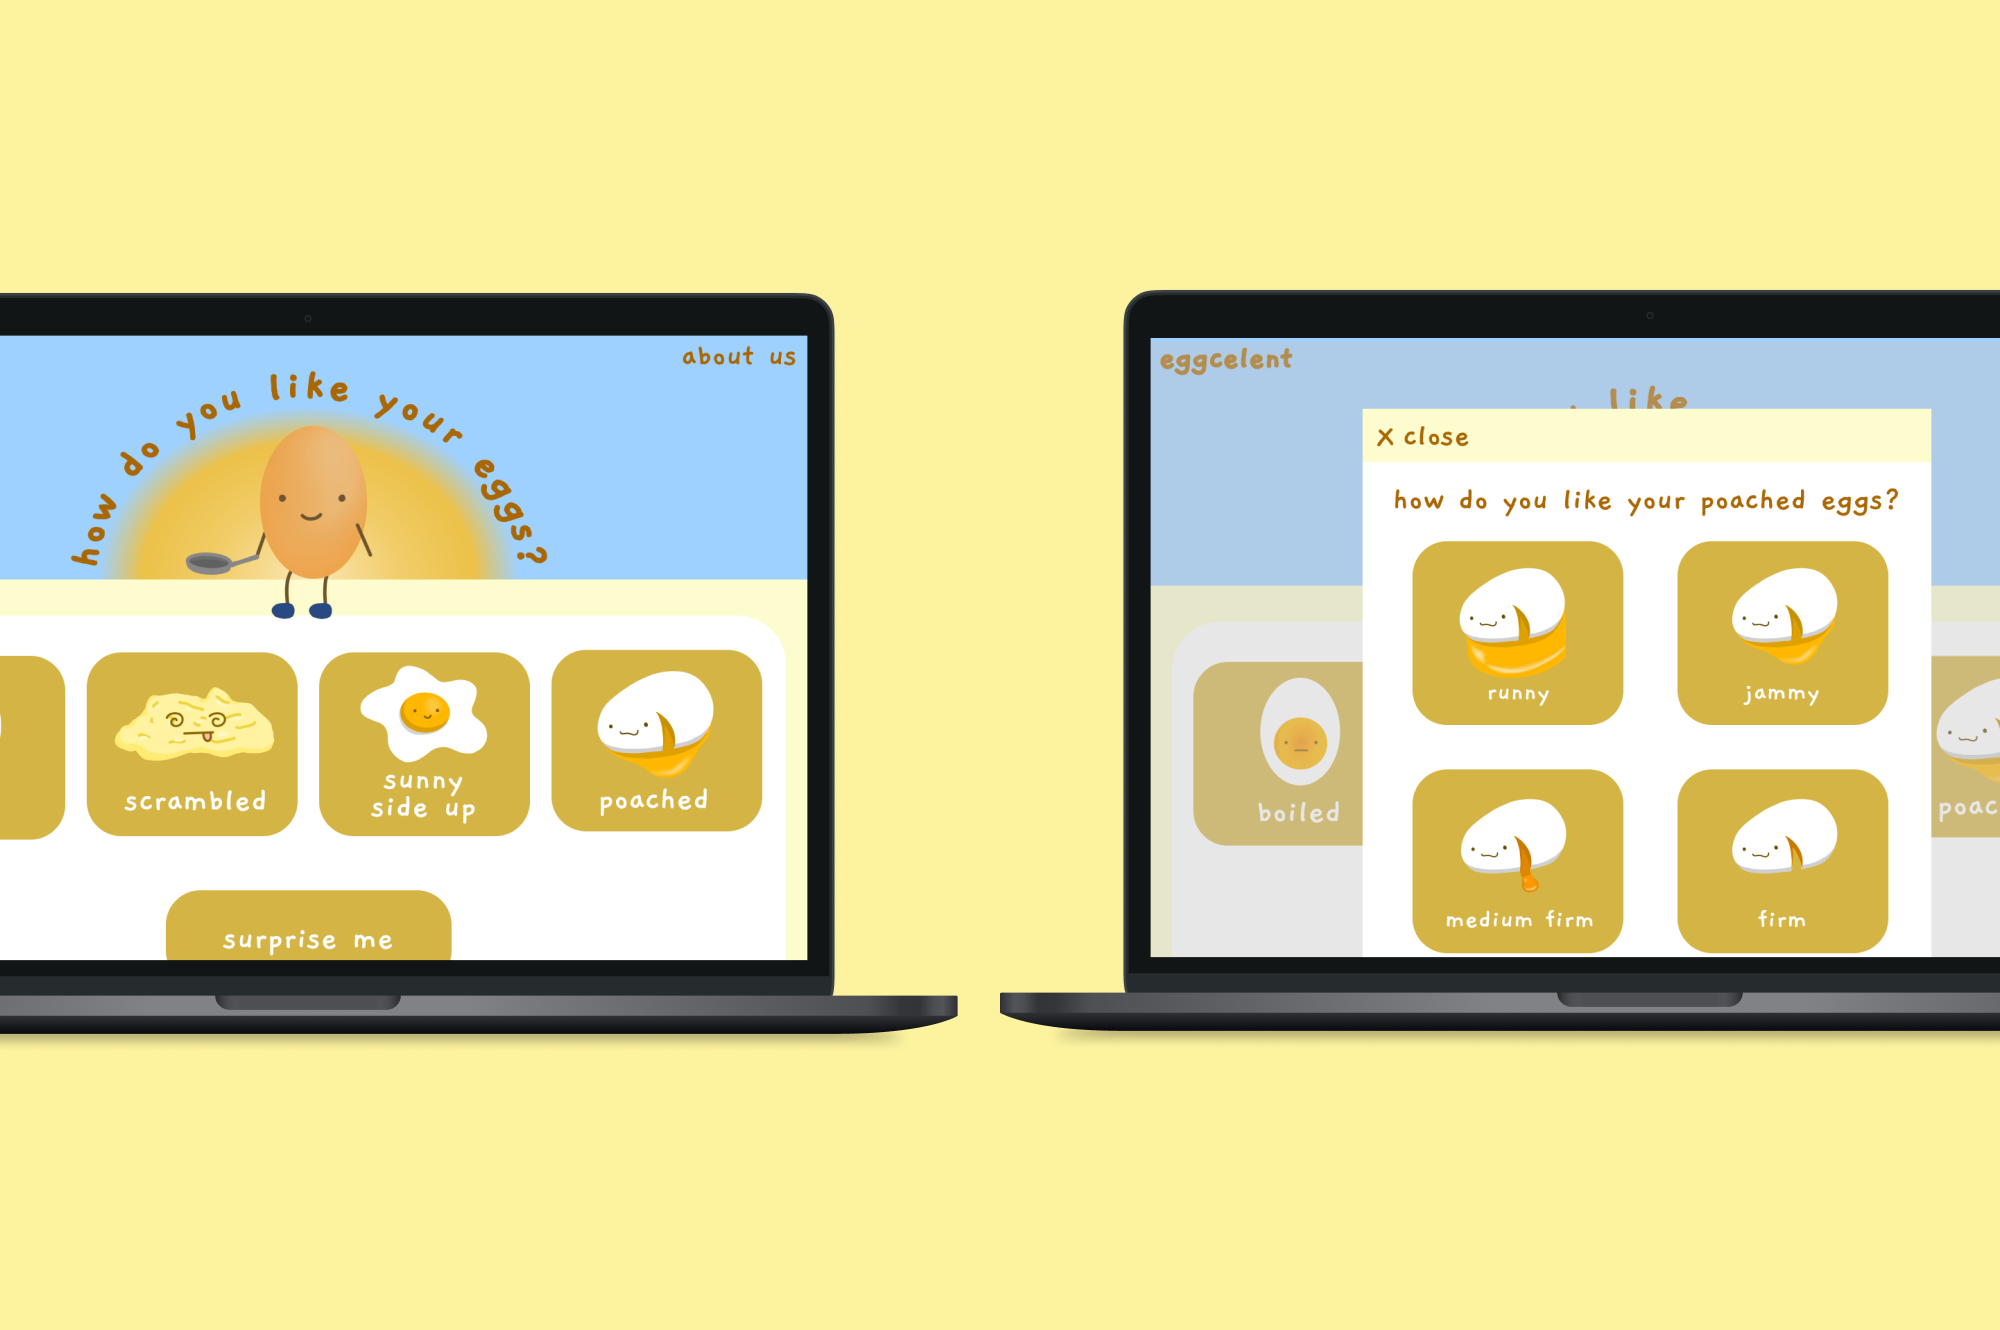
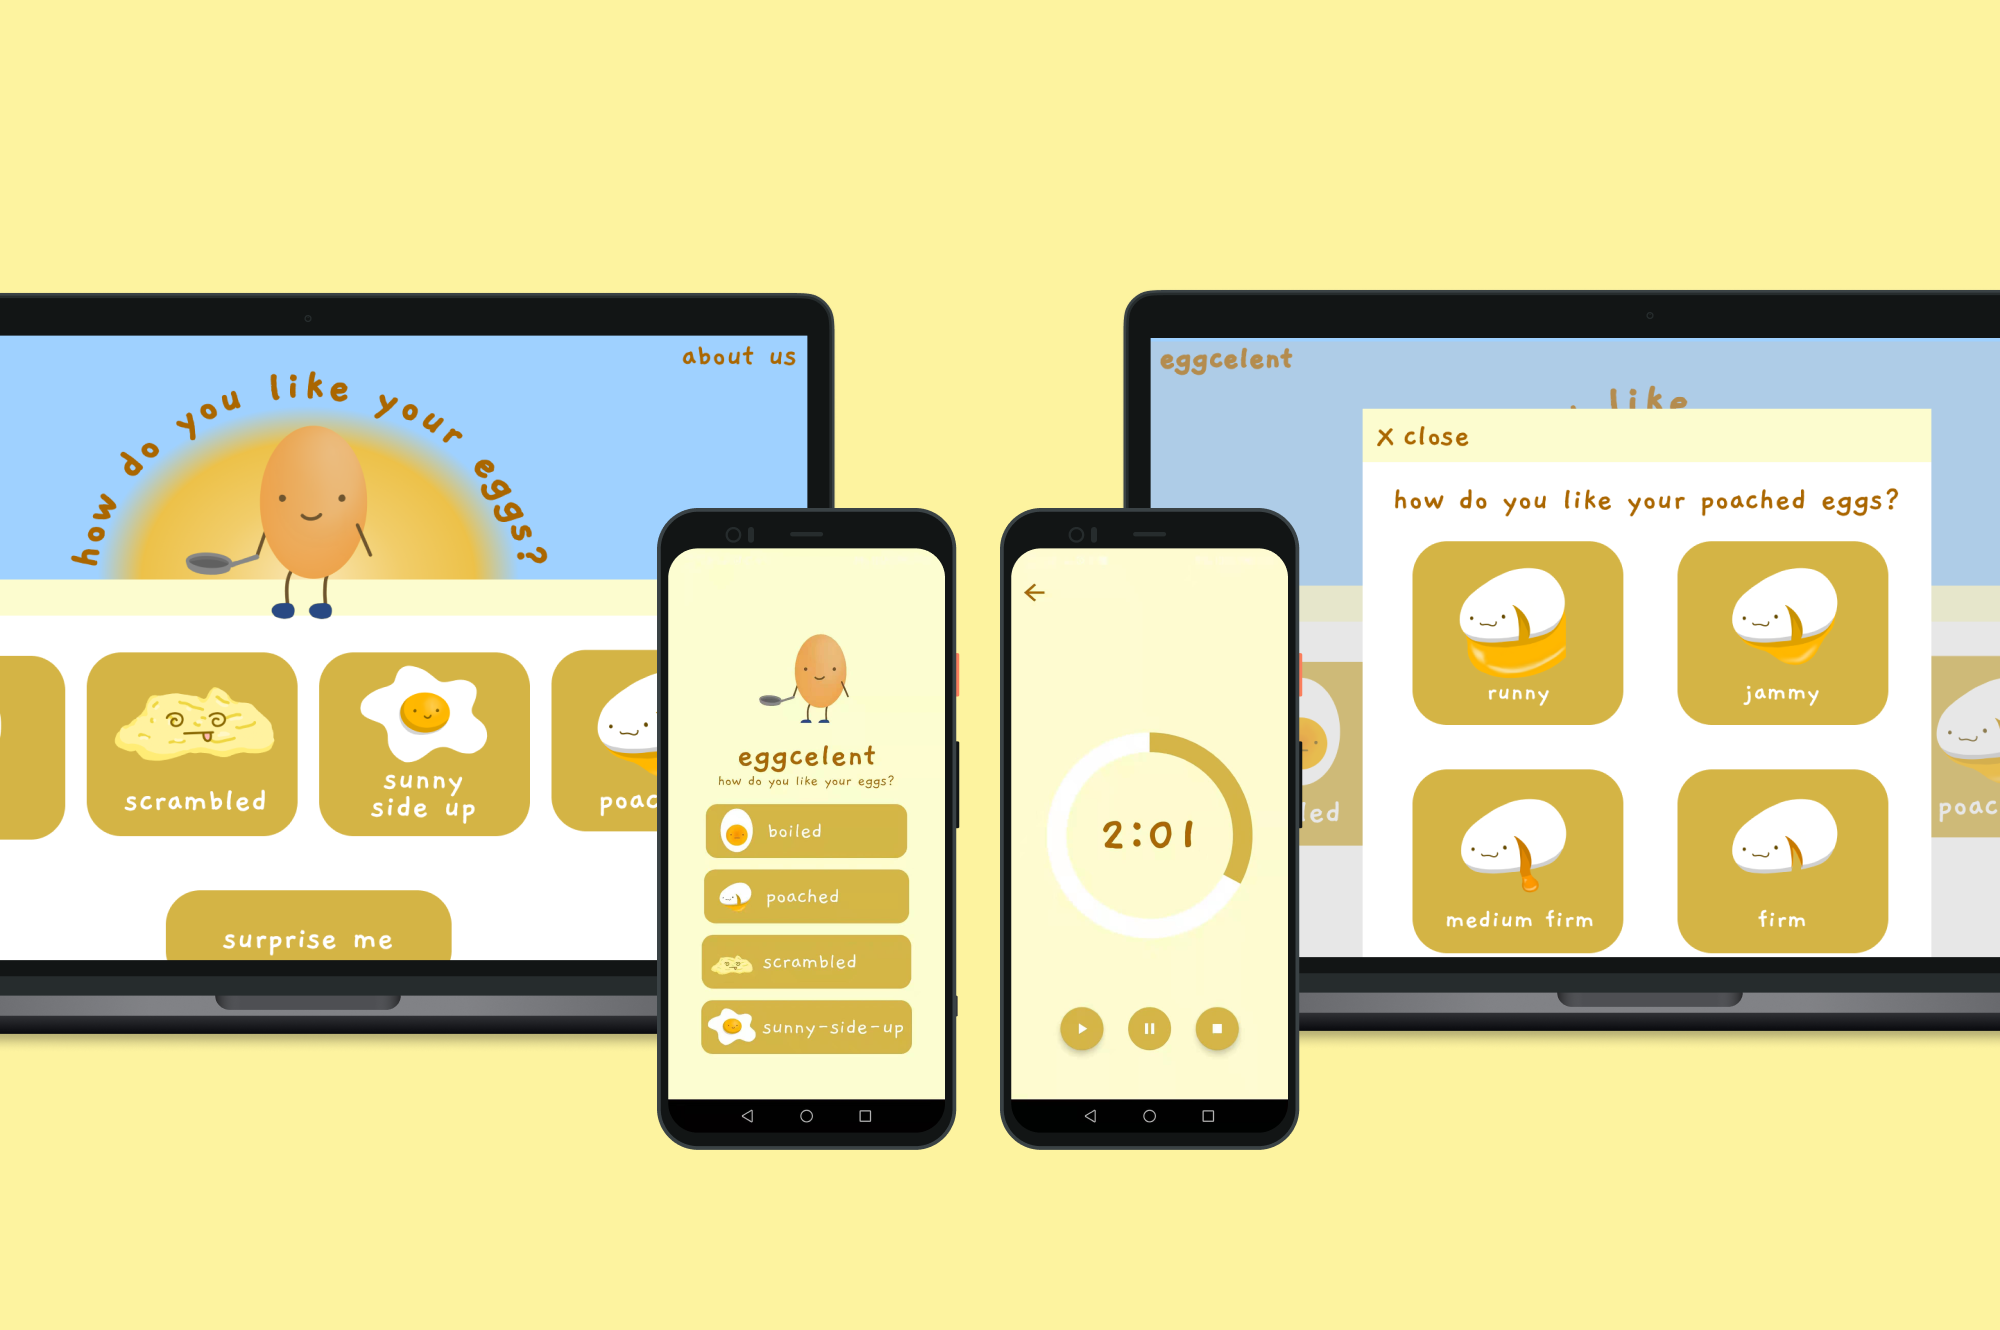
eggcelent update

Changed region(s): [[0.31, 0.3699, 0.651, 0.8632]]

diff --git a/index.html b/index.html
@@ -81,7 +81,7 @@
                             <h2>[WIP] eggcelent</h2>
                             <p>Simplifying making eggs</p>
                             <p class='hidden popUpdesc'>
-                                Don't know how long to cook your egg? eggcelent - a customizable egg timer website and mobile app - can help you out to make every morning bright and sunny (side up :D).
+                                Don't know how long to cook your egg? eggcelent - a customizable egg timer website and mobile app - can help you out to make every morning bright and sunny (side up). The Android is ready and the website is coming soon!
                             </p>
                             <span id="githubRepo" href="https://github.com/jasminejsun/eggcelent"></span>
                         </figcaption>
